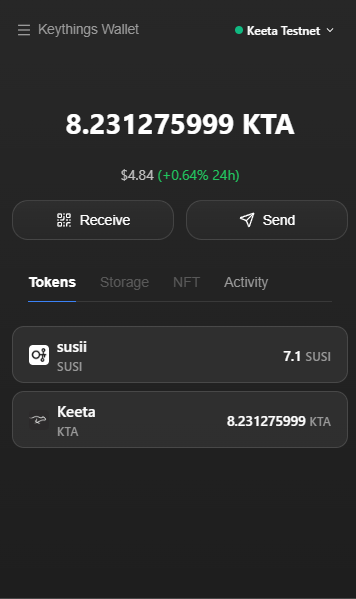
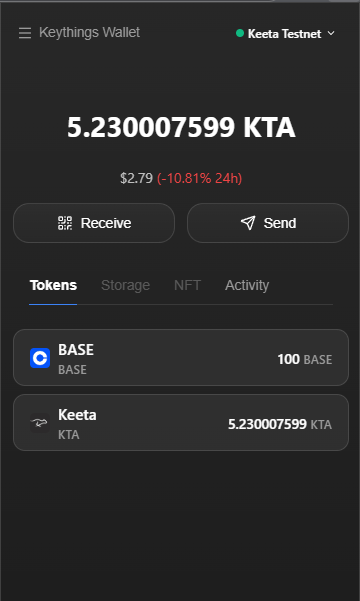
Add comprehensive footer component and update dashboard image
- Create Footer.js component with organized link sections (Product, Resources, Support, Community)
- Include social media links (X/Twitter, Discord, GitHub) with hover effects
- Add legal links (Privacy Policy, Terms of Service, Install Extension)
- Implement responsive grid layout with glassmorphism styling
- Update root layout to include footer with proper flexbox positioning
- Replace dashboard.png with updated screenshot
- Ensure footer appears on all pages with proper spacing and branding

diff --git a/src/app/components/Footer.js b/src/app/components/Footer.js
@@ -1,0 +1,150 @@
+"use client"
+
+import Link from "next/link"
+import { siX, siDiscord, siGithub } from "simple-icons"
+
+export default function Footer() {
+  const currentYear = new Date().getFullYear()
+
+  const footerSections = [
+    {
+      title: "Product",
+      links: [
+        { href: "/docs/getting-started", label: "Getting Started" },
+        { href: "/docs/developer/integration", label: "Integration Guide" },
+        { href: "/docs/developer/api-reference", label: "API Reference" },
+        { href: "/docs/security", label: "Security" },
+      ]
+    },
+    {
+      title: "Resources",
+      links: [
+        { href: "/docs", label: "Documentation" },
+        { href: "/docs/tutorials/setup", label: "Tutorials" },
+        { href: "/docs/nostr-basics", label: "Keeta Network Basics" },
+        { href: "https://github.com/moww20/keythings-extension-wallet", label: "GitHub Repository" },
+      ]
+    },
+    {
+      title: "Support",
+      links: [
+        { href: "/docs/privacy-policy", label: "Privacy Policy" },
+        { href: "/docs/licensing", label: "Licensing" },
+        { href: "mailto:support@keythings.wallet", label: "Contact Support" },
+        { href: "https://chromewebstore.google.com/", label: "Chrome Web Store" },
+      ]
+    },
+    {
+      title: "Community",
+      links: [
+        { href: "https://x.com/keythings_wallet", label: "X (Twitter)" },
+        { href: "https://discord.gg/keythings", label: "Discord" },
+        { href: "https://github.com/moww20/keythings-extension-wallet", label: "GitHub" },
+        { href: "/docs/authentication", label: "Authentication" },
+      ]
+    }
+  ]
+
+  return (
+    <footer className="relative border-t border-white/10 bg-gradient-to-b from-white/[0.02] to-transparent">
+      <div className="mx-auto max-w-7xl px-6 py-12">
+        <div className="grid gap-8 lg:grid-cols-5">
+          {/* Brand Section */}
+          <div className="lg:col-span-2">
+            <div className="space-y-4">
+              <Link href="/" className="inline-flex items-center gap-3">
+                <span className="text-xl font-semibold text-foreground">Keythings Wallet</span>
+              </Link>
+              <p className="max-w-md text-sm leading-relaxed text-foreground/70">
+                Secure non-custodial browser extension for the Keeta Network. Built with enterprise-grade security and an intuitive glassmorphism interface.
+              </p>
+              <div className="flex items-center gap-4">
+                <a
+                  href="https://x.com/keythings_wallet"
+                  target="_blank"
+                  rel="noopener noreferrer"
+                  aria-label="X (Twitter)"
+                  className="inline-flex items-center justify-center w-10 h-10 rounded-full border border-white/10 hover:border-white/20 hover:bg-white/5 text-foreground/70 hover:text-foreground transition-colors"
+                >
+                  <svg className="w-4 h-4" viewBox="0 0 24 24" fill="currentColor" role="img" aria-hidden="true" xmlns="http://www.w3.org/2000/svg">
+                    <path d={siX.path} />
+                  </svg>
+                </a>
+                <a
+                  href="https://discord.gg/keythings"
+                  target="_blank"
+                  rel="noopener noreferrer"
+                  aria-label="Discord"
+                  className="inline-flex items-center justify-center w-10 h-10 rounded-full border border-white/10 hover:border-white/20 hover:bg-white/5 text-foreground/70 hover:text-foreground transition-colors"
+                >
+                  <svg className="w-4 h-4" viewBox="0 0 24 24" fill="currentColor" role="img" aria-hidden="true" xmlns="http://www.w3.org/2000/svg">
+                    <path d={siDiscord.path} />
+                  </svg>
+                </a>
+                <a
+                  href="https://github.com/moww20/keythings-extension-wallet"
+                  target="_blank"
+                  rel="noopener noreferrer"
+                  aria-label="GitHub"
+                  className="inline-flex items-center justify-center w-10 h-10 rounded-full border border-white/10 hover:border-white/20 hover:bg-white/5 text-foreground/70 hover:text-foreground transition-colors"
+                >
+                  <svg className="w-4 h-4" viewBox="0 0 24 24" fill="currentColor" role="img" aria-hidden="true" xmlns="http://www.w3.org/2000/svg">
+                    <path d={siGithub.path} />
+                  </svg>
+                </a>
+              </div>
+            </div>
+          </div>
+
+          {/* Links Sections */}
+          {footerSections.map((section) => (
+            <div key={section.title} className="space-y-4">
+              <h3 className="text-sm font-semibold text-foreground uppercase tracking-wider">
+                {section.title}
+              </h3>
+              <nav className="space-y-3">
+                {section.links.map((link) => (
+                  <Link
+                    key={link.href}
+                    href={link.href}
+                    className="block text-sm text-foreground/70 hover:text-foreground transition-colors"
+                  >
+                    {link.label}
+                  </Link>
+                ))}
+              </nav>
+            </div>
+          ))}
+        </div>
+
+        {/* Bottom Section */}
+        <div className="mt-12 pt-8 border-t border-white/10">
+          <div className="flex flex-col gap-4 sm:flex-row sm:items-center sm:justify-between">
+            <div className="text-xs text-foreground/60">
+              © {currentYear} Keythings Wallet. All rights reserved.
+            </div>
+            <div className="flex flex-wrap items-center gap-6 text-xs text-foreground/60">
+              <Link href="/docs/privacy-policy" className="hover:text-foreground/80 transition-colors">
+                Privacy Policy
+              </Link>
+              <Link href="/docs/licensing" className="hover:text-foreground/80 transition-colors">
+                Terms of Service
+              </Link>
+              <a
+                href="https://chromewebstore.google.com/"
+                target="_blank"
+                rel="noopener noreferrer"
+                className="hover:text-foreground/80 transition-colors"
+              >
+                Install Extension
+              </a>
+            </div>
+          </div>
+          <div className="mt-4 text-xs text-foreground/50">
+            Built for the Keeta Network • Non-custodial • Open Source
+          </div>
+        </div>
+      </div>
+    </footer>
+  )
+}

diff --git a/src/app/layout.js b/src/app/layout.js
@@ -1,5 +1,6 @@
 import "./globals.css";
 import Navbar from "./components/Navbar";
+import Footer from "./components/Footer";
 
 export const metadata = {
   title: "Keythings Wallet Docs",
@@ -23,7 +24,10 @@ export default function RootLayout({ children }) {
     <html lang="en">
       <body className={`antialiased font-sans`}>
         <Navbar />
-        <div className="pt-16">{children}</div>
+        <div className="pt-16 min-h-screen flex flex-col">
+          <main className="flex-1">{children}</main>
+          <Footer />
+        </div>
       </body>
     </html>
   );
